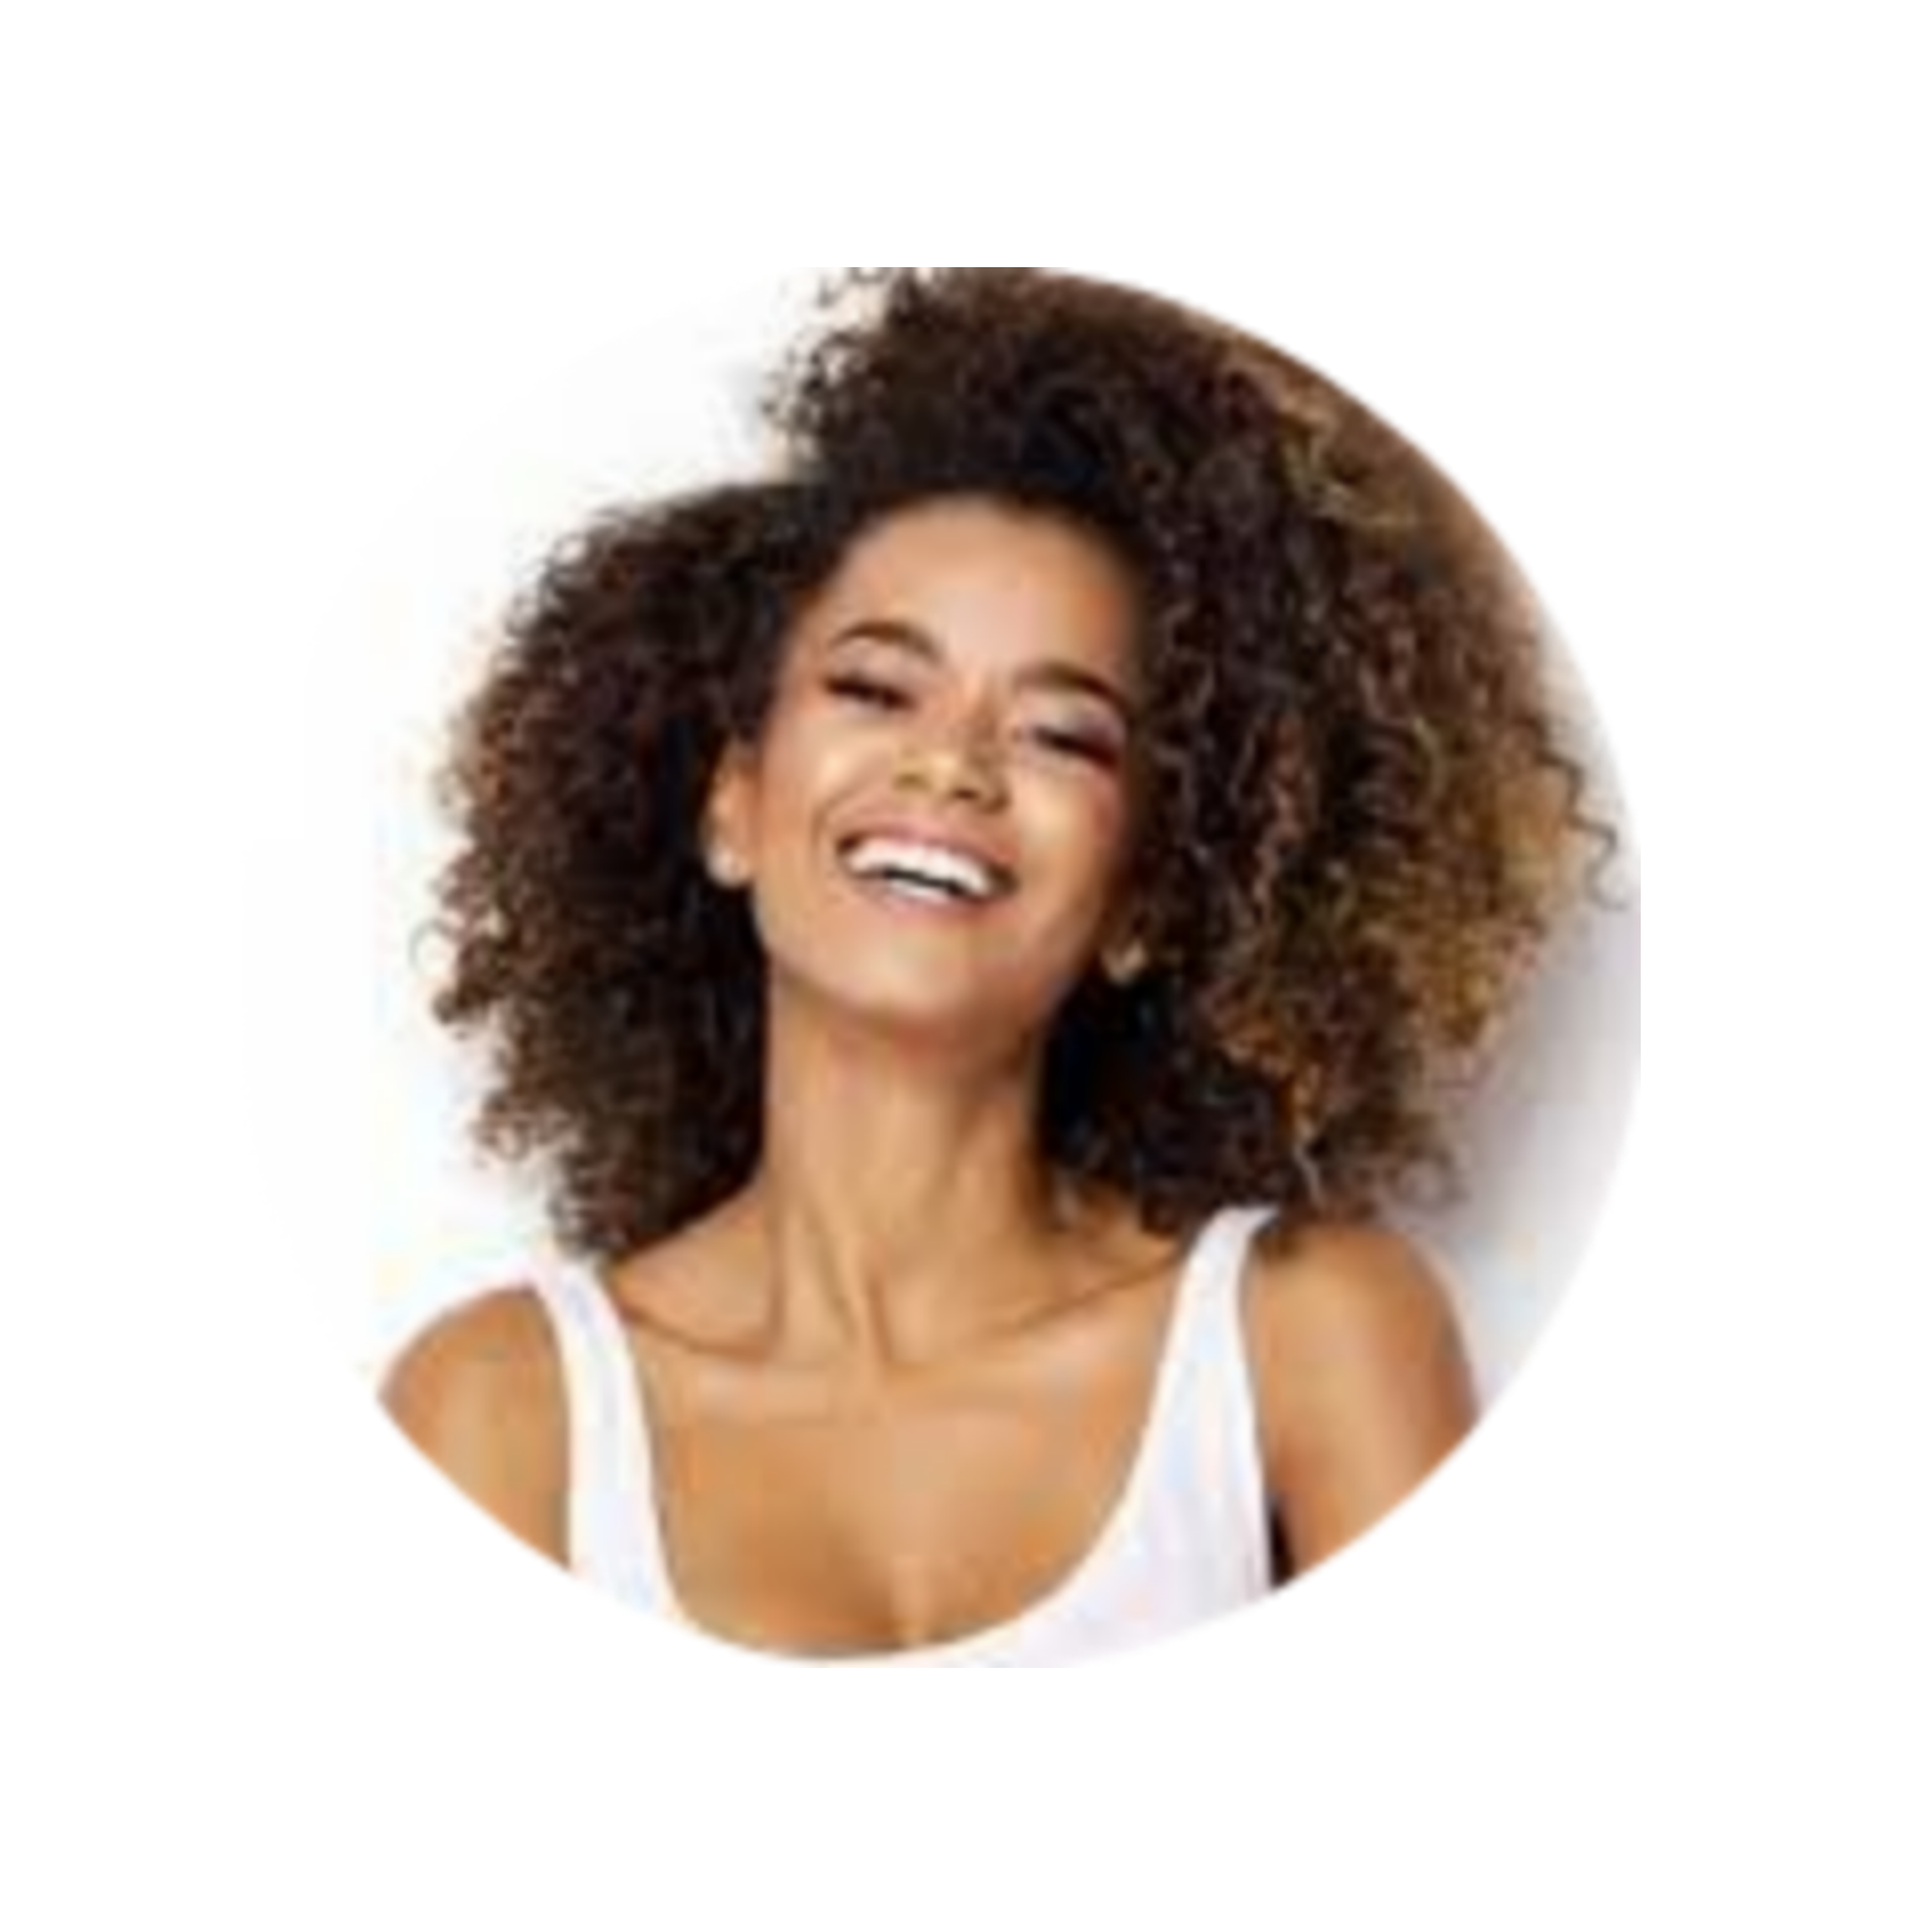
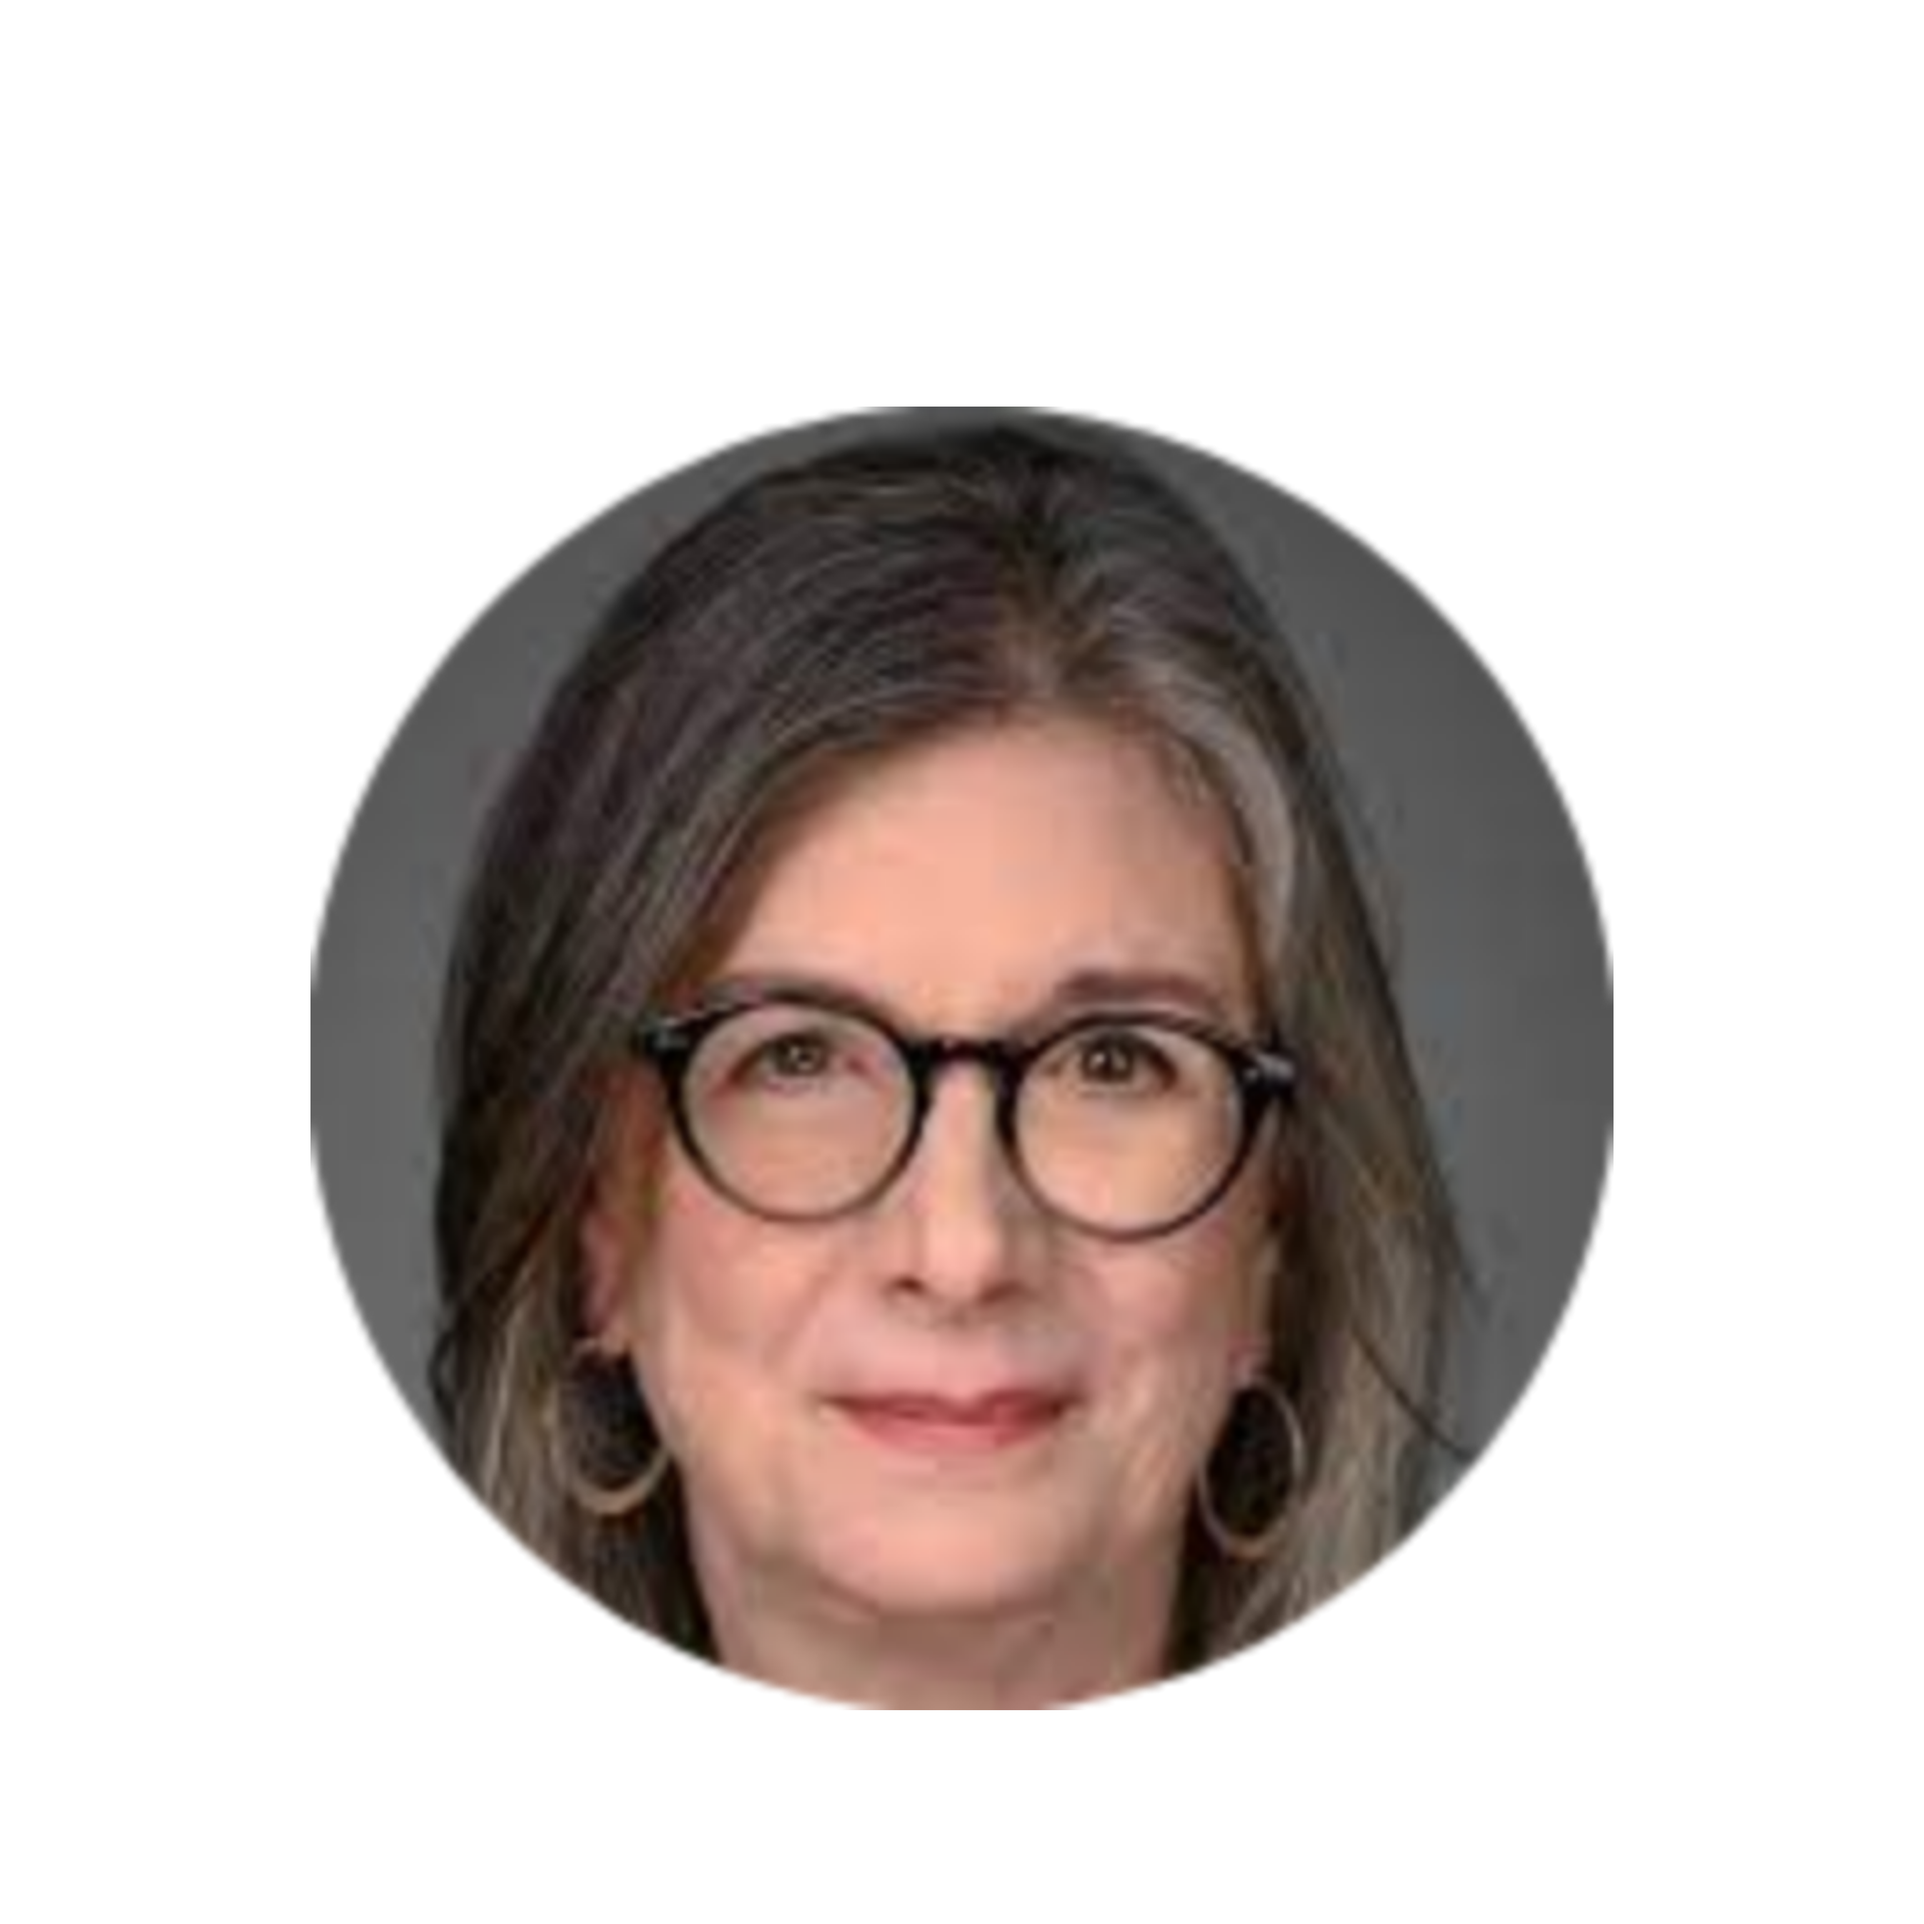
working on cards

diff --git a/src/components/Testimonials.jsx b/src/components/Testimonials.jsx
@@ -6,13 +6,14 @@ import TestimonialsCard from './TestimonialsCard'
 
 const Testimonials = () => {
   return (
-    <div className='container'>
+    <div id='services-testimonial' className='container'>
+      <h4 className='text-center py-5'>Testimonials</h4>
         <div className="row">
         { 
             JobSeekerTestimonials.map((items) => {
               return(
-                <div className="col">
-                  <TestimonialsCard testimonial={items.testimonial} name={items.name} img={items.imgPath} />
+                <div className="col pb-5">
+                  <TestimonialsCard testimonial={items.testimonial} type={items.type} name={items.name} img={items.imgPath} />
                 </div>
               )
             })
@@ -23,8 +24,8 @@ const Testimonials = () => {
           {
             EmployerTestimonials.map((items) => {
               return (
-                <div className="col">
-                  <TestimonialsCard testimonial={items.testimonial} name={items.name} img={items.imgPath}/>
+                <div className="col pb-5">
+                  <TestimonialsCard testimonial={items.testimonial} type={items.type} name={items.name} img={items.imgPath}/>
                 </div>
               )
             })

diff --git a/src/components/TestimonialsCard.jsx b/src/components/TestimonialsCard.jsx
@@ -1,14 +1,21 @@
 import React from 'react'
+import '../css/testimonials.css'
 
 const TestimonialsCard = (props) => {
   return (
     <div className='container'>
         <div className="row">
-            <div className="card">
-                <img src={props.img} alt="" className="card-img-top" />
+            <div id='testimonial-card-design' className="card">
                 <div className="card-body">
-                    <h5 className='card-title'>{props.name}</h5>
-                    <p className='card-text'>{props.testimonial}</p>
+                    <p id='testimonials-card-text' className='card-text'>{props.testimonial}</p>
+                </div>
+                <div className='row'>
+                  <div className="col-sm-4">
+                    <img id='testimonials-img' src={props.img} alt="" className="card-img-bottom"/>
+                  </div>
+                  <div id='col-name' className="col-sm-8">
+                    <p className='card-title'>{props.name}<br/>{props.type}</p>
+                  </div>
                 </div>
             </div>
         </div>

diff --git a/src/data-model/JobSeekerTestimonials.jsx b/src/data-model/JobSeekerTestimonials.jsx
@@ -6,18 +6,21 @@ const TestimonialsList = [
         imgPath: "images/testimony/testimony1.png",
         name: "Beth J. Sadler",
         testimonial: "Thanks guys, for responding to my application. I had to respond to your email as you’re the first company EVER to do so in my history of job applications when I hadn’t been initially successful. This makes you unique in this modern world and I salute you for that.",
+        type: "Job-seeker"
     },
     {
         id: 2,
         imgPath: "images/testimony/testimony2.png",
         name: "Emily MacDonald",
         testimonial: "Your application system is fantastic, job hunting can be very frustrating and you are by far the most friendly and professional recruitment business I have worked with.",
+        type: "Job-seeker"
     },
     {
         id: 3,
         imgPath: "images/testimony/testimony3.png",
         name: "Hattie T. Wheeler",
         testimonial: "I found your application system really easy-to-use, while still allowing me to include all the information I needed to.",
+        type: "Job-seeker"
     },
 ]
  

diff --git a/src/data-model/EmployerTestimonials.jsx b/src/data-model/EmployerTestimonials.jsx
@@ -5,18 +5,21 @@ const EmployerTestimonials = [
         imgPath: "images/testimony/testimony4.png",
         name: "Melinda M. Baldwin",
         testimonial: "We've hired many outstanding Developers from JobSCript as full-time employees. They tend to be very professional and experienced.",
+        type: "Employer"
     },
     {
         id: 2,
         imgPath: "images/testimony/testimony5.png",
         name: "Susan J. Ward",
         testimonial: "Absolutely a business should hire someone through JobScript.  Our experience is that it brings the team together and involves us in our community.",
-    },
+        type: "Employer"
+    },  
     {
         id: 3,
         imgPath: "images/testimony/testimony6.png",
         name: "Stacia J. Michael",
         testimonial: "We have been utilizing staffing provided by JobScript and have had a fantastic experience. We have been lucky to have an outstanding developer taking our Company to its full potential.",
+        type: "Employer"
     },
 ]
 

diff --git a/src/css/testimonials.css b/src/css/testimonials.css
@@ -1,0 +1,47 @@
+#testimonials-card-text {
+    font-size: 12px;
+    font-style: italic;
+    text-align: justify;
+    padding-bottom: 30px;
+}
+
+#testimonials-card-text::before {
+    content: "''  ''";
+    color: #e63c3c;
+    font-size: 25px;
+    font-family: Arial; 
+    display: flex;
+    justify-content: center;
+    align-items: center;
+
+    padding-bottom: 0px;
+}
+
+#testimonials-img {
+    height: 100px;
+    width: 100px;
+}
+
+#col-name{
+    display: flex;
+    justify-content: start;
+    align-items: center;
+}
+
+#testimonial-card-design {
+    box-shadow: none;
+    width: 25rem;
+}
+
+#testimonial-card-design:hover {
+    box-shadow: 7px 7px 5px 1px lightgray;
+    /* transform: scale(1.01); */
+    transition: 0.3s ease-in-out;
+}
+
+/* @media screen and (min-width: 280px) and (max-width: 915px) {
+    #services-testimonial {
+        display: block;
+        justify-content: center;
+    }
+}    */

diff --git a/src/pages/Services.jsx b/src/pages/Services.jsx
@@ -1,6 +1,7 @@
 import React from 'react'
 import img2 from '../images/home-images/Employer.jpg'
 import img3 from '../images/home-images/JobSeeker.jpg'
+import '../css/testimonials.css'
 
 import {makeStyles} from "@mui/styles";
 import Testimonials from '../components/Testimonials';
@@ -61,7 +62,13 @@ const Services = () => {
                 <p >Lorem ipsum dolor sit amet, consectetur adipiscing elit, sed do eiusmod tempor incididunt ut labore et dolore magna aliqua. Ut enim ad minim veniam, quis nostrud</p>
             </div>
         </div>
-        <Testimonials />
+        <div className="container">
+            <div  className='row'>
+                <div className="col">
+                    <Testimonials />
+                </div>
+            </div>
+        </div>
     </div>
   )
 }

diff --git a/src/components/ContactUs.jsx b/src/components/ContactUs.jsx
@@ -1,0 +1,16 @@
+import React from 'react'
+import '../css/contactus.css'
+
+const ContactUs = () => {
+  return (
+    <div id='contact-us-container' className='container'>
+        <h1>Contact Us</h1>
+        <h2 className='text-center'>Thank you for visiting JobScript</h2>
+        <p className='text-center'>Whether you are a job seeker looking for tips on using JobScript, 
+                    or an employer interested in our  products and services,
+                    we want to hear from you! Please choose from the following 2 options</p>
+    </div>
+  )
+}
+
+export default ContactUs

diff --git a/src/components/Displaycard.jsx b/src/components/Displaycard.jsx
@@ -11,7 +11,7 @@ const Displaycard = (props) => {
   return (
     <div className="container">
       <div className='row'>
-        <div className="card">
+        <div id='developer-card' className="card">
           <img src={props.imgPath} height="280" alt="No image" className="card-img-top" />
           <div className="card-body">
             <h5 className="card-title">{props.title}</h5>

diff --git a/src/pages/Connect.jsx b/src/pages/Connect.jsx
@@ -1,8 +1,11 @@
 import React from 'react'
+import ContactUs from '../components/ContactUs'
 
 const Connect = () => {
   return (
-    <div>Connect</div>
+    <div className='container'>
+      <ContactUs />
+    </div>
   )
 }
 

diff --git a/src/css/developer.css b/src/css/developer.css
@@ -9,9 +9,9 @@
     align-items: center;
 }
 
-.card {
+#developer-card {
     width: 21rem;
-    box-shadow: 5px 5px 10px 1px;
+    /* box-shadow: 3px 3px 3px 1px lightgray; */
     border-radius: 5px;
 }
 

diff --git a/src/css/contactus.css b/src/css/contactus.css
@@ -1,0 +1,7 @@
+
+#contact-us-container h1 {
+    margin: 20px;
+    text-align: center;
+    color: #e63c3c;
+}
+
